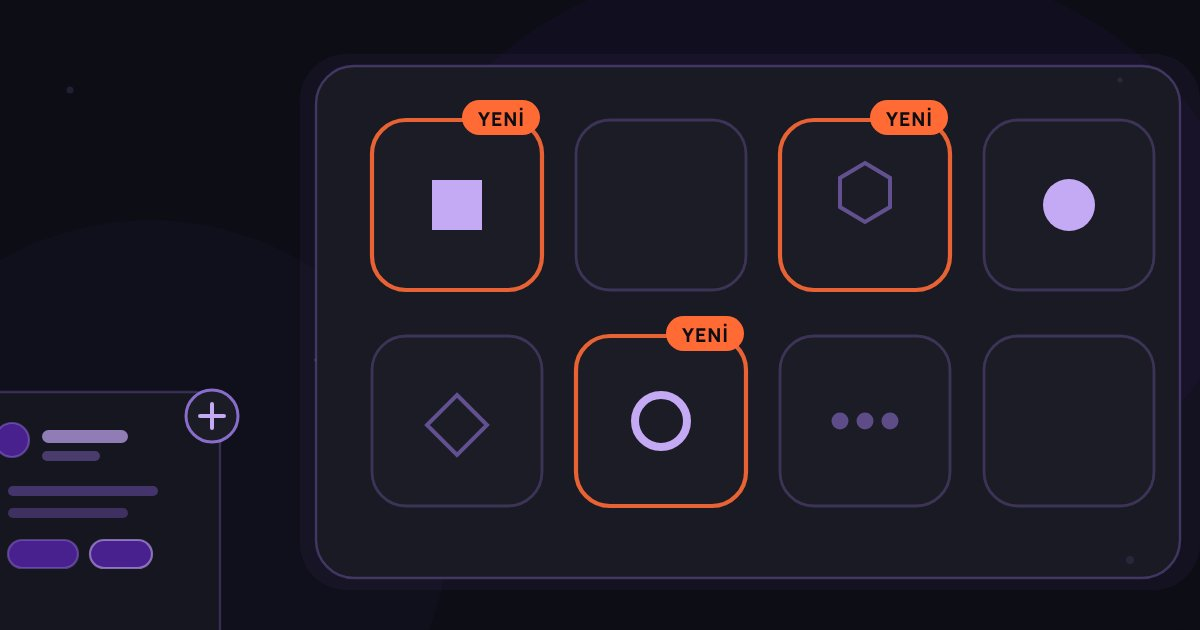
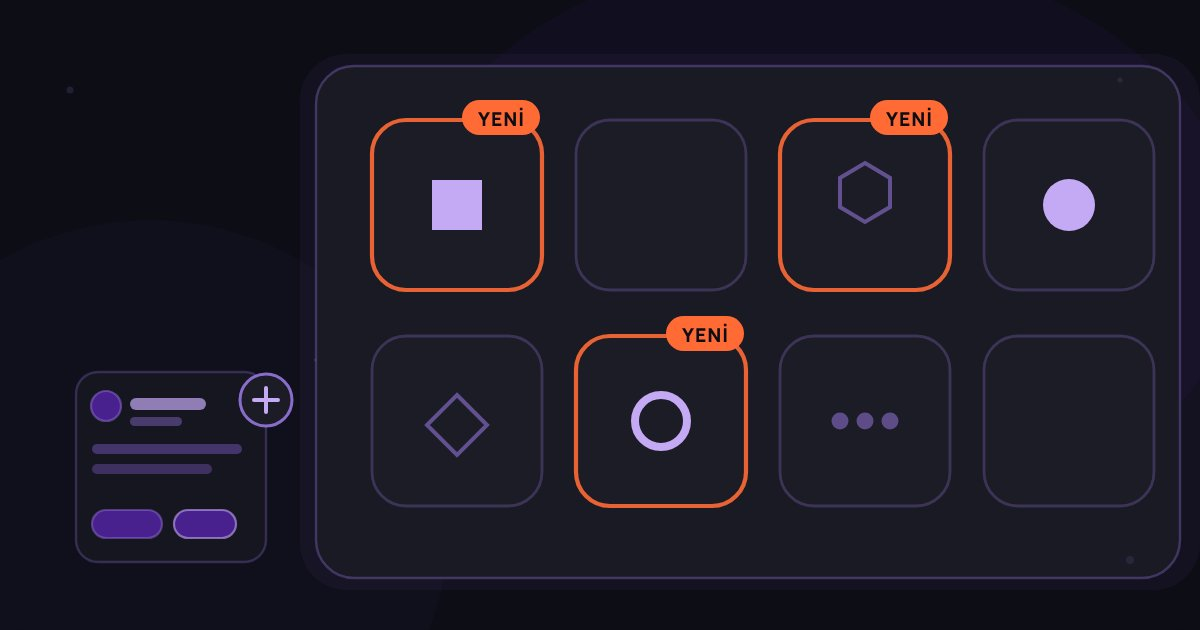
Hero yüksekliği, öne çıkan kart taşması, og görseli kompozisyonu

Changed region(s): [[0.0, 0.573, 0.2467, 0.9048]]

diff --git a/arac/partials/head-base.html b/arac/partials/head-base.html
@@ -135,7 +135,9 @@ img{max-width:100%;display:block}
 .ig-featured-cover img{width:100%;height:100%;object-fit:cover}
 .ig-featured-body{padding:32px 34px;display:flex;flex-direction:column;justify-content:center;gap:14px}
 .ig-featured-body h2{font-size:clamp(1.3rem,2.6vw,1.9rem)}
-.ig-featured-ozet{color:var(--text-on-dark-muted);font-size:1rem}
+/* Özet 4 satırla sınırlı → cover'ın 16/9 sabit yüksekliğini aşmaz, "Yazıyı oku" hep görünür (kart overflow kesmez) */
+.ig-featured-ozet{color:var(--text-on-dark-muted);font-size:1rem;
+  display:-webkit-box;-webkit-line-clamp:4;-webkit-box-orient:vertical;overflow:hidden}
 
 /* ---- KATEGORİ ETİKETİ / ROZET ---- */
 .ig-cat{display:inline-flex;align-items:center;gap:6px;font-size:.68rem;font-weight:700;letter-spacing:.08em;
@@ -238,8 +240,12 @@ img{max-width:100%;display:block}
 .article-sub{margin-top:14px;color:var(--text-on-dark-muted);font-size:clamp(1.05rem,2.2vw,1.28rem);font-weight:500;max-width:48ch;line-height:1.5}
 .article-meta{margin-top:18px}
 
-.article-hero{margin:6px auto 0;max-width:1000px;border-radius:var(--radius);overflow:hidden;border:1px solid var(--border-dark);background:#0e0e15}
-.article-hero img{width:100%;height:auto;display:block;aspect-ratio:16/9;object-fit:cover}
+/* Hero: 16/9 ama viewport'un ~%34'ünü aşmasın (svh fallback) → başlık + hero + altındaki içeriğin üst kenarı
+   ilk ekranda birlikte. Tavan CDP ölçümüyle seçildi: 44/40/38'de en uzun başlıklı makalede (2030) özet 1280×800
+   fold'unun altında kalıyordu; 34svh her iki makalede de özeti peek ettiriyor. Mobilde hero zaten kısa (kapak yok). */
+.article-hero{margin:6px auto 0;max-width:1000px;aspect-ratio:16/9;max-height:34vh;max-height:34svh;
+  border-radius:var(--radius);overflow:hidden;border:1px solid var(--border-dark);background:#0e0e15}
+.article-hero img{width:100%;height:100%;object-fit:cover;object-position:center;display:block}
 
 .article-layout{max-width:1000px;margin:34px auto 0;display:grid;grid-template-columns:minmax(0,1fr);gap:26px;
   grid-template-areas:"summary" "toc" "body"}

diff --git a/icgoruler/2026-isverenlerin-aradigi-yetkinlikler/index.html b/icgoruler/2026-isverenlerin-aradigi-yetkinlikler/index.html
@@ -142,7 +142,9 @@ img{max-width:100%;display:block}
 .ig-featured-cover img{width:100%;height:100%;object-fit:cover}
 .ig-featured-body{padding:32px 34px;display:flex;flex-direction:column;justify-content:center;gap:14px}
 .ig-featured-body h2{font-size:clamp(1.3rem,2.6vw,1.9rem)}
-.ig-featured-ozet{color:var(--text-on-dark-muted);font-size:1rem}
+/* Özet 4 satırla sınırlı → cover'ın 16/9 sabit yüksekliğini aşmaz, "Yazıyı oku" hep görünür (kart overflow kesmez) */
+.ig-featured-ozet{color:var(--text-on-dark-muted);font-size:1rem;
+  display:-webkit-box;-webkit-line-clamp:4;-webkit-box-orient:vertical;overflow:hidden}
 
 /* ---- KATEGORİ ETİKETİ / ROZET ---- */
 .ig-cat{display:inline-flex;align-items:center;gap:6px;font-size:.68rem;font-weight:700;letter-spacing:.08em;
@@ -245,8 +247,12 @@ img{max-width:100%;display:block}
 .article-sub{margin-top:14px;color:var(--text-on-dark-muted);font-size:clamp(1.05rem,2.2vw,1.28rem);font-weight:500;max-width:48ch;line-height:1.5}
 .article-meta{margin-top:18px}
 
-.article-hero{margin:6px auto 0;max-width:1000px;border-radius:var(--radius);overflow:hidden;border:1px solid var(--border-dark);background:#0e0e15}
-.article-hero img{width:100%;height:auto;display:block;aspect-ratio:16/9;object-fit:cover}
+/* Hero: 16/9 ama viewport'un ~%34'ünü aşmasın (svh fallback) → başlık + hero + altındaki içeriğin üst kenarı
+   ilk ekranda birlikte. Tavan CDP ölçümüyle seçildi: 44/40/38'de en uzun başlıklı makalede (2030) özet 1280×800
+   fold'unun altında kalıyordu; 34svh her iki makalede de özeti peek ettiriyor. Mobilde hero zaten kısa (kapak yok). */
+.article-hero{margin:6px auto 0;max-width:1000px;aspect-ratio:16/9;max-height:34vh;max-height:34svh;
+  border-radius:var(--radius);overflow:hidden;border:1px solid var(--border-dark);background:#0e0e15}
+.article-hero img{width:100%;height:100%;object-fit:cover;object-position:center;display:block}
 
 .article-layout{max-width:1000px;margin:34px auto 0;display:grid;grid-template-columns:minmax(0,1fr);gap:26px;
   grid-template-areas:"summary" "toc" "body"}

diff --git a/icgoruler/2030-islerin-ve-yetkinliklerin-gelecegi/index.html b/icgoruler/2030-islerin-ve-yetkinliklerin-gelecegi/index.html
@@ -142,7 +142,9 @@ img{max-width:100%;display:block}
 .ig-featured-cover img{width:100%;height:100%;object-fit:cover}
 .ig-featured-body{padding:32px 34px;display:flex;flex-direction:column;justify-content:center;gap:14px}
 .ig-featured-body h2{font-size:clamp(1.3rem,2.6vw,1.9rem)}
-.ig-featured-ozet{color:var(--text-on-dark-muted);font-size:1rem}
+/* Özet 4 satırla sınırlı → cover'ın 16/9 sabit yüksekliğini aşmaz, "Yazıyı oku" hep görünür (kart overflow kesmez) */
+.ig-featured-ozet{color:var(--text-on-dark-muted);font-size:1rem;
+  display:-webkit-box;-webkit-line-clamp:4;-webkit-box-orient:vertical;overflow:hidden}
 
 /* ---- KATEGORİ ETİKETİ / ROZET ---- */
 .ig-cat{display:inline-flex;align-items:center;gap:6px;font-size:.68rem;font-weight:700;letter-spacing:.08em;
@@ -245,8 +247,12 @@ img{max-width:100%;display:block}
 .article-sub{margin-top:14px;color:var(--text-on-dark-muted);font-size:clamp(1.05rem,2.2vw,1.28rem);font-weight:500;max-width:48ch;line-height:1.5}
 .article-meta{margin-top:18px}
 
-.article-hero{margin:6px auto 0;max-width:1000px;border-radius:var(--radius);overflow:hidden;border:1px solid var(--border-dark);background:#0e0e15}
-.article-hero img{width:100%;height:auto;display:block;aspect-ratio:16/9;object-fit:cover}
+/* Hero: 16/9 ama viewport'un ~%34'ünü aşmasın (svh fallback) → başlık + hero + altındaki içeriğin üst kenarı
+   ilk ekranda birlikte. Tavan CDP ölçümüyle seçildi: 44/40/38'de en uzun başlıklı makalede (2030) özet 1280×800
+   fold'unun altında kalıyordu; 34svh her iki makalede de özeti peek ettiriyor. Mobilde hero zaten kısa (kapak yok). */
+.article-hero{margin:6px auto 0;max-width:1000px;aspect-ratio:16/9;max-height:34vh;max-height:34svh;
+  border-radius:var(--radius);overflow:hidden;border:1px solid var(--border-dark);background:#0e0e15}
+.article-hero img{width:100%;height:100%;object-fit:cover;object-position:center;display:block}
 
 .article-layout{max-width:1000px;margin:34px auto 0;display:grid;grid-template-columns:minmax(0,1fr);gap:26px;
   grid-template-areas:"summary" "toc" "body"}

diff --git a/icgoruler/index.html b/icgoruler/index.html
@@ -138,7 +138,9 @@ img{max-width:100%;display:block}
 .ig-featured-cover img{width:100%;height:100%;object-fit:cover}
 .ig-featured-body{padding:32px 34px;display:flex;flex-direction:column;justify-content:center;gap:14px}
 .ig-featured-body h2{font-size:clamp(1.3rem,2.6vw,1.9rem)}
-.ig-featured-ozet{color:var(--text-on-dark-muted);font-size:1rem}
+/* Özet 4 satırla sınırlı → cover'ın 16/9 sabit yüksekliğini aşmaz, "Yazıyı oku" hep görünür (kart overflow kesmez) */
+.ig-featured-ozet{color:var(--text-on-dark-muted);font-size:1rem;
+  display:-webkit-box;-webkit-line-clamp:4;-webkit-box-orient:vertical;overflow:hidden}
 
 /* ---- KATEGORİ ETİKETİ / ROZET ---- */
 .ig-cat{display:inline-flex;align-items:center;gap:6px;font-size:.68rem;font-weight:700;letter-spacing:.08em;
@@ -241,8 +243,12 @@ img{max-width:100%;display:block}
 .article-sub{margin-top:14px;color:var(--text-on-dark-muted);font-size:clamp(1.05rem,2.2vw,1.28rem);font-weight:500;max-width:48ch;line-height:1.5}
 .article-meta{margin-top:18px}
 
-.article-hero{margin:6px auto 0;max-width:1000px;border-radius:var(--radius);overflow:hidden;border:1px solid var(--border-dark);background:#0e0e15}
-.article-hero img{width:100%;height:auto;display:block;aspect-ratio:16/9;object-fit:cover}
+/* Hero: 16/9 ama viewport'un ~%34'ünü aşmasın (svh fallback) → başlık + hero + altındaki içeriğin üst kenarı
+   ilk ekranda birlikte. Tavan CDP ölçümüyle seçildi: 44/40/38'de en uzun başlıklı makalede (2030) özet 1280×800
+   fold'unun altında kalıyordu; 34svh her iki makalede de özeti peek ettiriyor. Mobilde hero zaten kısa (kapak yok). */
+.article-hero{margin:6px auto 0;max-width:1000px;aspect-ratio:16/9;max-height:34vh;max-height:34svh;
+  border-radius:var(--radius);overflow:hidden;border:1px solid var(--border-dark);background:#0e0e15}
+.article-hero img{width:100%;height:100%;object-fit:cover;object-position:center;display:block}
 
 .article-layout{max-width:1000px;margin:34px auto 0;display:grid;grid-template-columns:minmax(0,1fr);gap:26px;
   grid-template-areas:"summary" "toc" "body"}

diff --git a/arac/gen-gorsel-2026-yetkinlikler.py b/arac/gen-gorsel-2026-yetkinlikler.py
@@ -171,17 +171,17 @@ def build_og():
     s.append('<polygon points="' + poly([(457,395),(487,425),(457,455),(427,425)]) + '" fill="none" stroke="#9F7BEA" stroke-width="4" stroke-opacity=".55"/>')  # dörtgen (372,336)
     for cx in (840, 865, 890):
         s.append(f'<circle cx="{cx}" cy="421" r="8.5" fill="#9F7BEA" opacity=".5"/>')                                   # üç nokta (780,336)
-    # CV kartı — küçük, sol-alt köşede kısmen kadraj dışı
-    s.append('<rect x="-40" y="392" width="260" height="260" rx="24" fill="#161620" stroke="#9F7BEA" stroke-opacity=".26" stroke-width="2.4"/>')
-    s.append('<circle cx="12" cy="440" r="17" fill="#48218E" stroke="#9F7BEA" stroke-opacity=".45" stroke-width="2.2"/>')
-    s.append('<rect x="42" y="430" width="86" height="13" rx="6.5" fill="#C4A9F5" opacity=".7"/>')
-    s.append('<rect x="42" y="451" width="58" height="10" rx="5" fill="#9F7BEA" opacity=".38"/>')
-    for y, w, op in [(486,150,.46),(508,120,.4)]:
-        s.append(f'<rect x="8" y="{y}" width="{w}" height="10" rx="5" fill="#7B5BC4" opacity="{op}"/>')
-    s.append('<rect x="8" y="540" width="70" height="28" rx="14" fill="#48218E" stroke="#9F7BEA" stroke-opacity=".42" stroke-width="2.2"/>')
-    s.append('<rect x="90" y="540" width="62" height="28" rx="14" fill="#48218E" stroke="#C4A9F5" stroke-opacity=".6" stroke-width="2.2"/>')
-    s.append('<circle cx="212" cy="416" r="26" fill="#1C1C26" stroke="#9F7BEA" stroke-opacity=".85" stroke-width="3"/>')
-    s.append('<path d="M212 404 V428 M200 416 H224" stroke="#C4A9F5" stroke-width="4" stroke-linecap="round"/>')
+    # CV kartı — TAM görünür (sol-alt, kenardan ≥%6 boşluk: sol 76≥72, alt 68≥38), küçük
+    s.append('<rect x="76" y="372" width="190" height="190" rx="22" fill="#161620" stroke="#9F7BEA" stroke-opacity=".26" stroke-width="2.4"/>')
+    s.append('<circle cx="106" cy="406" r="15" fill="#48218E" stroke="#9F7BEA" stroke-opacity=".45" stroke-width="2.2"/>')
+    s.append('<rect x="130" y="398" width="76" height="12" rx="6" fill="#C4A9F5" opacity=".7"/>')
+    s.append('<rect x="130" y="417" width="52" height="9" rx="4.5" fill="#9F7BEA" opacity=".38"/>')
+    for y, w, op in [(444,150,.46),(464,120,.4)]:
+        s.append(f'<rect x="92" y="{y}" width="{w}" height="10" rx="5" fill="#7B5BC4" opacity="{op}"/>')
+    s.append('<rect x="92" y="510" width="70" height="28" rx="14" fill="#48218E" stroke="#9F7BEA" stroke-opacity=".42" stroke-width="2.2"/>')
+    s.append('<rect x="174" y="510" width="62" height="28" rx="14" fill="#48218E" stroke="#C4A9F5" stroke-opacity=".6" stroke-width="2.2"/>')
+    s.append('<circle cx="266" cy="400" r="26" fill="#1C1C26" stroke="#9F7BEA" stroke-opacity=".85" stroke-width="3"/>')
+    s.append('<path d="M266 388 V412 M254 400 H278" stroke="#C4A9F5" stroke-width="4" stroke-linecap="round"/>')
     # YENİ rozetleri
     for bx, by, base in [(462,100,126),(870,100,126),(666,316,342)]:
         s.append(f'<rect x="{bx}" y="{by}" width="78" height="35" rx="17.5" fill="#FF6A35"/>')
